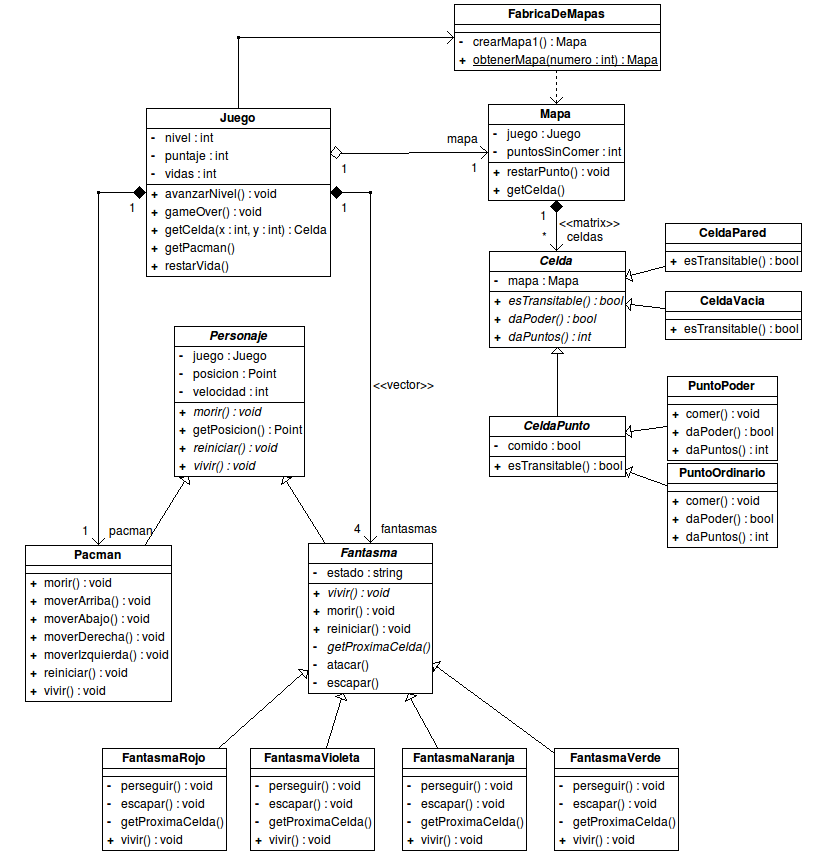
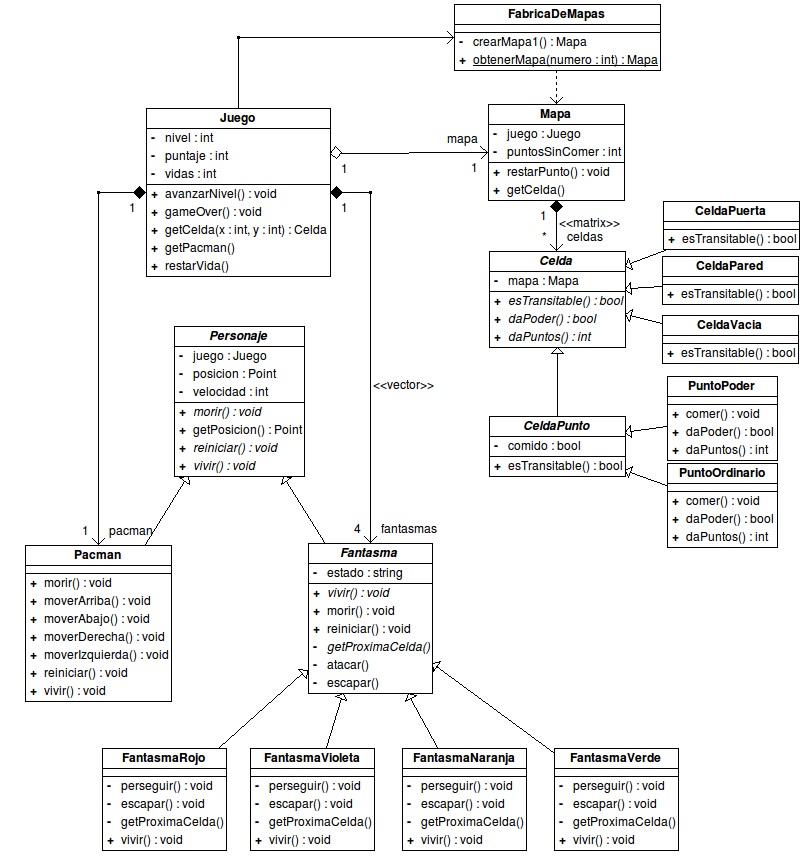
Ajuste de responsabilidades. Cambio en metodos publicos del pacman y de las celdas.

diff --git a/tp3/src/grupo9/algo3man/modelo/Pacman.java b/tp3/src/grupo9/algo3man/modelo/Pacman.java
@@ -34,7 +34,13 @@ public class Pacman extends Personaje {
 			this.contadorDeTics = 0;
 			
 			this.moverseEnDireccionActual();
-			this.juego.getCelda(this.getPosicion()).transitar();
+			int puntos = this.juego.getCelda(this.getPosicion()).daPuntos();
+			this.juego.sumarPuntos(puntos);
+			
+			if(this.juego.getCelda(this.getPosicion()).daPoder()){
+				this.setVictimario();
+				//TODO alterar fantasmas
+			}
 			
 			this.checkFantasmaEnCelda();
 		}
@@ -63,10 +69,10 @@ public class Pacman extends Personaje {
 		this.setDireccion(ARRIBA);
 	}
 	
-	public void setVictimario(){
+	private void setVictimario(){
 		this.estado = VICTIMARIO;
 	}
-	public void setVictima(){
+	private void setVictima(){
 		this.estado = VICTIMA;
 	}
 

diff --git a/tp3/src/grupo9/algo3man/modelo/PuntoPoder.java b/tp3/src/grupo9/algo3man/modelo/PuntoPoder.java
@@ -14,25 +14,19 @@ public class PuntoPoder extends CeldaPunto {
 	protected void comer() {
 		this.comido = true;
 		this.mapa.restarPunto();
-		
-		
-	}
-
-	public void transitar() {
-		this.comer();
-		this.mapa.getJuego().sumarPuntos(this.PUNTAJE_PODER);
-		this.mapa.getJuego().getPacman().setVictimario();
-		ArrayList fantasmas = this.mapa.getJuego().getFantasmas();
-		for(int i=0; i < fantasmas.size(); i++){
-			((Fantasma) fantasmas.get(i)).huirDelPacman();
-		}
-		
-		// TODO implementar timer para volver a la normalidad
 	}
 
 	public boolean esTransitable() {
 		
 		return true;
+	}
+	
+	public boolean daPoder() {
+		return true;
+	}
+
+	public int daPuntos() {
+		return this.PUNTAJE_PODER;
 	}
 
 	

diff --git a/tp3/src/grupo9/algo3man/modelo/PuntoOrdinario.java b/tp3/src/grupo9/algo3man/modelo/PuntoOrdinario.java
@@ -16,15 +16,16 @@ public class PuntoOrdinario extends CeldaPunto {
 		
 	}
 
-	public void transitar() {
-		this.comer();
-		this.mapa.getJuego().sumarPuntos(this.PUNTAJE_ORDINARIO);
-		
+	public boolean esTransitable() {
+		return true;
 	}
 
-	public boolean esTransitable() {
-		
-		return true;
+	public boolean daPoder() {
+		return false;
+	}
+
+	public int daPuntos() {
+		return this.PUNTAJE_ORDINARIO;
 	}
 
 	

diff --git a/tp3/src/grupo9/algo3man/modelo/CeldaTransitable.java b/tp3/src/grupo9/algo3man/modelo/CeldaTransitable.java
@@ -4,20 +4,9 @@ import java.awt.Point;
 
 public abstract class CeldaTransitable extends Celda {
 
-	
-
-	
-
 	public CeldaTransitable(Mapa mapa, Point posicion) {
 		super(mapa, posicion);
 		
-	}
-
-	public abstract void transitar(); 
-	
-
-		
-		
-	
+	}	
 
 }

diff --git a/tp3/src/grupo9/algo3man/modelo/Celda.java b/tp3/src/grupo9/algo3man/modelo/Celda.java
@@ -26,10 +26,8 @@ import grupo9.algo3man.modelo.Objetivo;
 
 	public abstract boolean esTransitable();
 
-	public void transitar() {
-		// Override en celdas que hagan algo.
-	}
-	
+	public abstract boolean daPoder();
+	public abstract int daPuntos();
 	
 
 

diff --git a/tp3/src/grupo9/algo3man/modelo/CeldaVacia.java b/tp3/src/grupo9/algo3man/modelo/CeldaVacia.java
@@ -16,9 +16,12 @@ public class CeldaVacia extends CeldaTransitable {
 		return false;
 	}
 
-	public void transitar() {
-		
-		
+	public boolean daPoder() {
+		return false;
+	}
+
+	public int daPuntos() {
+		return 0;
 	}
 
 }

diff --git a/tp3/src/grupo9/algo3man/modelo/CeldaPared.java b/tp3/src/grupo9/algo3man/modelo/CeldaPared.java
@@ -14,6 +14,14 @@ public class CeldaPared extends Celda {
 		
 		return false;
 	}
+	
+	public boolean daPoder() {
+		return false;
+	}
+
+	public int daPuntos() {
+		return 0;
+	}
 
 	
 	
